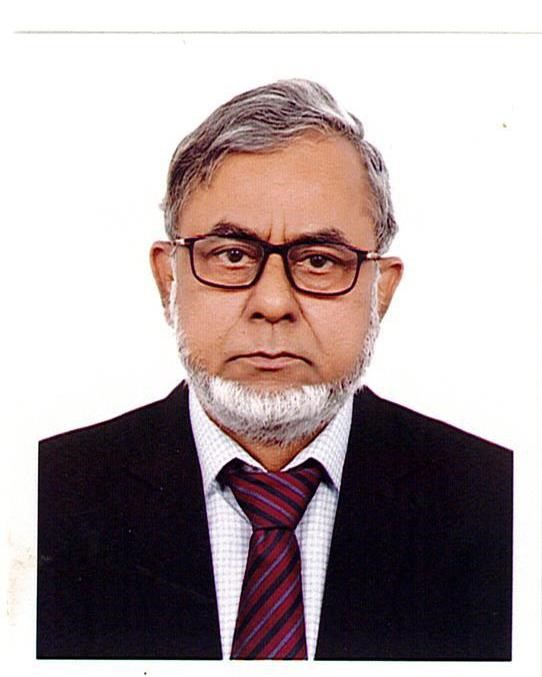
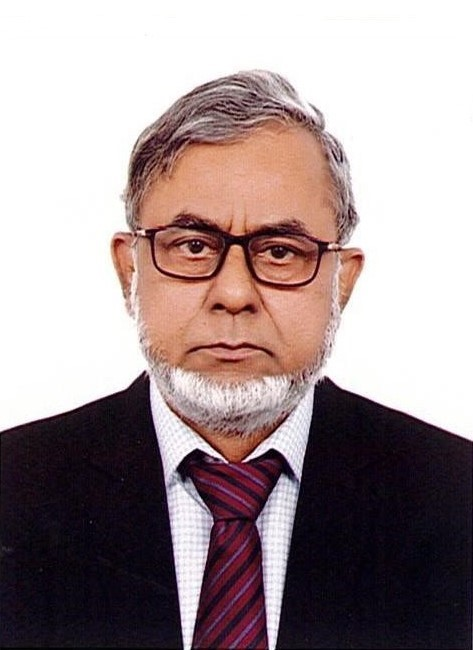
organogram and team card image design modified

diff --git a/src/app/about/our-team/page.jsx b/src/app/about/our-team/page.jsx
@@ -3,12 +3,13 @@
 import Head from 'next/head'
 import { motion } from 'framer-motion'
 import Image from 'next/image'
+import { useState } from 'react'
 
 const leaders = [
     { name: "A.H.M. Shamsud Duha", designation: "Project Director", image: "/team/ahm_shamsud_duha.jpg" },
     { name: "Ahammed Ali ", designation: "Manager (Quality Control)", image: "/team/ahammed_ali.png" },
     { name: "Rahatul Islam", designation: "Manager (Accounts & Finance)", image: "/team/rahatul_islam.jpg" },
-    { name: "Md. Helal Uddin", designation: "Manager (Operations)", image: "/placeholder.svg?height=300&width=300" },
+    { name: "Md. Helal Uddin", designation: "Manager (Operations)", image: "/team/helal_uddin.jpg" },
     { name: "Md. Solaiman", designation: "Asst. Manager (Admin)", image: "/team/md_solaiman.jpg" },
 ]
 
@@ -40,12 +41,15 @@ export default function OurTeam() {
                 <h1 className='w-fit mx-auto text-4xl font-bold text-center text-gray-900 mb-12 border-b-4 border-primary'>Organogram</h1>
                 <div>
                     <img
-                        src="/organogram.png"
+                        src="/organogram2.png"
                         alt="Organogram"
                         width={800}
                         height={700}
-                        className=" mx-auto w-[80%] h-auto object-contain object-center"
+                        quality={100}
+                        className=" mx-auto w-[90%] h-auto object-contain object-center"
                     />
+
+                    {/* <Organogram /> */}
                 </div>
             </div>
         </>
@@ -63,16 +67,174 @@ const LeaderCard = ({ leader, index }) => {
             whileTap={{ scale: 0.95 }}
         >
             <Image
-                src={leader.image}
-                alt={leader.name}
-                width={300}
-                height={300}
-                className="w-full h-64 object-contain object-center"
+                src={leader?.image}
+                alt={leader?.name}
+                width={200}
+                height={200}
+                className="w-[200px] h-[200px] object-center rounded-full mx-auto border-2 p-1 border-primary m-2"
             />
             <div className="p-6">
-                <h2 className="text-xl font-semibold text-gray-900 mb-2">{leader.name}</h2>
-                <p className="text-gray-600">{leader.designation}</p>
+                <h2 className="text-xl font-semibold text-gray-900 mb-2">{leader?.name}</h2>
+                <p className="text-gray-600">{leader?.designation}</p>
             </div>
         </motion.div>
+    )
+}
+
+
+const Organogram = () => {
+    const boxVariants = {
+        hidden: { opacity: 0, scale: 0.8 },
+        visible: {
+            opacity: 1,
+            scale: 1,
+            transition: {
+                duration: 0.5,
+                delay: 0.2
+            }
+        }
+    }
+
+    const arrowVariants = {
+        hidden: { pathLength: 0 },
+        visible: {
+            pathLength: 1,
+            transition: {
+                duration: 0.5,
+                delay: 0.5
+            }
+        }
+    }
+
+    const Arrow = ({ start, end }) => (
+        <motion.path
+            d={`M${start.x},${start.y} L${end.x},${end.y}`}
+            stroke="black"
+            strokeWidth="2"
+            fill="none"
+            markerEnd="url(#arrowhead)"
+            variants={arrowVariants}
+        />
+    )
+
+    return (
+        <div className="w-full overflow-x-auto">
+            <svg width="1400" height="1000" viewBox="0 0 1400 1000">
+                <defs>
+                    <marker id="arrowhead" markerWidth="10" markerHeight="7"
+                        refX="9" refY="3.5" orient="auto">
+                        <polygon points="0 0, 10 3.5, 0 7" fill="black" />
+                    </marker>
+                </defs>
+                <motion.g initial="hidden" animate="visible">
+                    {/* Managing Director */}
+                    <motion.rect x="600" y="20" width="200" height="40" rx="5" fill="white" stroke="black" variants={boxVariants} />
+                    <motion.text x="700" y="45" textAnchor="middle" variants={boxVariants}>MANAGING DIRECTOR</motion.text>
+
+                    <Arrow start={{ x: 700, y: 60 }} end={{ x: 700, y: 100 }} />
+
+                    {/* Executive Director */}
+                    <motion.rect x="600" y="100" width="200" height="40" rx="5" fill="white" stroke="black" variants={boxVariants} />
+                    <motion.text x="700" y="125" textAnchor="middle" variants={boxVariants}>Executive Director</motion.text>
+
+                    <Arrow start={{ x: 700, y: 140 }} end={{ x: 700, y: 180 }} />
+
+                    {/* General Manager - Plant */}
+                    <motion.rect x="575" y="180" width="250" height="40" rx="5" fill="white" stroke="black" variants={boxVariants} />
+                    <motion.text x="700" y="205" textAnchor="middle" variants={boxVariants}>General Manager - Plant</motion.text>
+
+                    <Arrow start={{ x: 700, y: 220 }} end={{ x: 700, y: 260 }} />
+
+                    {/* Managers */}
+                    <Arrow start={{ x: 700, y: 260 }} end={{ x: 150, y: 300 }} />
+                    <Arrow start={{ x: 700, y: 260 }} end={{ x: 425, y: 300 }} />
+                    <Arrow start={{ x: 700, y: 260 }} end={{ x: 700, y: 300 }} />
+                    <Arrow start={{ x: 700, y: 260 }} end={{ x: 975, y: 300 }} />
+                    <Arrow start={{ x: 700, y: 260 }} end={{ x: 1250, y: 300 }} />
+
+                    {[
+                        { title: 'Sales & Marketing', x: 150 },
+                        { title: 'A&F', x: 425 },
+                        { title: 'Chemist', x: 700 },
+                        { title: 'Operation', x: 975 },
+                        { title: 'HR & Admin', x: 1250 }
+                    ].map(({ title, x }) => (
+                        <g key={title}>
+                            <motion.rect x={x - 75} y="300" width="150" height="40" rx="5" fill="white" stroke="black" variants={boxVariants} />
+                            <motion.text x={x} y="325" textAnchor="middle" fontSize="12" variants={boxVariants}>Manager {title}</motion.text>
+                        </g>
+                    ))}
+
+                    {/* Subordinates */}
+                    <SubordinateGroup x={150} y={400} title="Executive" count={2} parentX={150} />
+                    <SubordinateGroup x={425} y={400} title="Accounts Astt." parentX={425} />
+                    <SubordinateGroup x={700} y={400} title="Asstt. Chemist" parentX={700} />
+                    <SubordinateGroup x={875} y={400} title="Technician" count={2} subtitle="Mech/Elec" parentX={975} />
+                    <SubordinateGroup x={1075} y={400} title="Process Operator" count={10} subtitle="Persons" parentX={975} />
+                    <SubordinateGroup x={1150} y={400} title="Peon" count={2} parentX={1250} />
+                    <SubordinateGroup x={1250} y={400} title="Security" count={12} subtitle="Persons" parentX={1250} />
+                    <SubordinateGroup x={1350} y={400} title="Driver" count={2} parentX={1250} />
+                    <SubordinateGroup x={1350} y={480} title="Cleaner" count={2} subtitle="Persons" parentX={1250} />
+
+                    {/* Additional subordinates */}
+                    <SubordinateGroup x={700} y={480} title="Lab Technician" count={2} parentX={700} parentY={440} />
+                    <SubordinateGroup x={875} y={480} title="Jr. Technician" count={2} parentX={875} parentY={440} />
+
+                    {/* Helpers */}
+                    <SubordinateGroup x={1075} y={480} title="Helper" count={3} parentX={1075} parentY={440} />
+                    <SubordinateGroup x={875} y={560} title="Helper" count={2} parentX={875} parentY={520} />
+                </motion.g>
+            </svg>
+        </div>
+    )
+}
+
+const SubordinateGroup = ({ x, y, title, count, subtitle, parentX, parentY = 340 }) => {
+    const boxVariants = {
+        hidden: { opacity: 0, scale: 0.8 },
+        visible: {
+            opacity: 1,
+            scale: 1,
+            transition: {
+                duration: 0.5,
+                delay: 0.3
+            }
+        }
+    }
+
+    const arrowVariants = {
+        hidden: { pathLength: 0 },
+        visible: {
+            pathLength: 1,
+            transition: {
+                duration: 0.5,
+                delay: 0.5
+            }
+        }
+    }
+
+    return (
+        <motion.g initial="hidden" animate="visible">
+            <motion.path
+                d={`M${parentX},${parentY} L${x},${y}`}
+                stroke="black"
+                strokeWidth="2"
+                fill="none"
+                markerEnd="url(#arrowhead)"
+                variants={arrowVariants}
+            />
+            <motion.rect x={x - 75} y={y} width="150" height="40" rx="5" fill="white" stroke="black" variants={boxVariants} />
+            <motion.text x={x} y={y + 20} textAnchor="middle" fontSize="12" variants={boxVariants}>{title}</motion.text>
+            {count && (
+                <motion.text x={x} y={y + 35} textAnchor="middle" fontSize="10" variants={boxVariants}>
+                    ({count} {subtitle || (count > 1 ? 'Persons' : 'Person')})
+                </motion.text>
+            )}
+            {subtitle && !count && (
+                <motion.text x={x} y={y + 35} textAnchor="middle" fontSize="10" variants={boxVariants}>
+                    {subtitle}
+                </motion.text>
+            )}
+        </motion.g>
     )
 }

diff --git a/src/app/page.js b/src/app/page.js
@@ -76,7 +76,7 @@ const Hero = () => {
           initial={{ opacity: 0, y: 20 }}
           animate={{ opacity: 1, y: 0 }}
           transition={{ duration: 0.5, delay: 0.4 }}
-          className="text-xl md:text-2xl mb-8"
+          className="text-xl md:text-2xl mb-8 text-center"
         >
           Innovative Energy Solutions for a Sustainable Future
         </motion.p>
